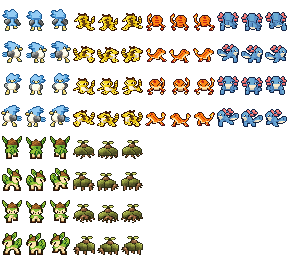
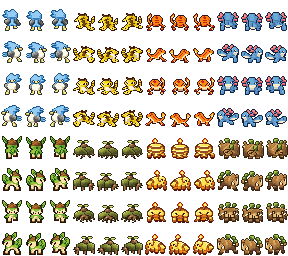
feat(monster-art): follower walk chips for the remaining nine species (#2626)
* feat(monster-art): bake follower walk chips for sparkit, aqualing, leafling, pipbug (supervisor picks)

* feat(monster-art): bake follower walk chips for the remaining nine species (worker picks, supervisor delegated)

* test(monster-art): live follower-train capture for the walking chips; wiki note

---------

diff --git a/openwiki/harnesses/monster-collect-species.md b/openwiki/harnesses/monster-collect-species.md
@@ -215,3 +215,4 @@ import를 확인한다. seed만 개인 sandbox에 복사하고 후보 import만 
 - `bake` 는 칩 8명씩 288×256 시트(`public/assets/harnesses/monster-collect-species/field/chips-<n>.png`, 한 캐릭터 72×128 = 3패턴 × 4방향 위·오른·아래·왼)로 묶고 `field/index.json`(종 → 시트·칸)을 쓴다. **칸 번호는 덧붙이기 전용**이다 — 저장된 프로젝트의 참조가 흔들리지 않게 한 번 준 칸은 바꾸지 않는다. 끝에 `manifest` 를 돌려 `harnessMonsterBundle.json` 에 `fieldSheets` 와 종별 `field {sheet,index}` 를 싣는다.
 - 런타임: `harnessMonsterArt.ts` 가 시트를 캐릭터셋 카탈로그(`charsetCatalog.ts`, id `oprn-charset-harness-monster<n>` / 텍스처 `tex_oprn_charset_harness_monster<n>`)에 올리고, 로스터(`roster.ts` `fieldArt`)가 `campaignSpeciesId` 로 이어진 종에 `graphic.fieldGraphic` 을 단다. 칩이 없는 종은 기존대로 기본 몬스터 칩. 해석기·참조 검증·내보내기는 charset 의 일반 경로를 따른다.
 - 3/4 관문(object-gate) 영수증 없음 — 몬스터 하네스 경로(생성형 참고 + 격자 손 저작). 사람이 고른 것만 굽는다.
+- 15종 전부 칩이 있다(시트 2장, 2026-10-15). 실화면 확인: `scripts/qa/runtime/follower-chip-train.capture.mjs`(출하 플레이어, `buildMonsterFixture.ts` 캠페인 사용) — 종을 6마리씩 열차로 세워 네 방향으로 걷고 맵 이동·비행선 탑승(동료 스프라이트 0)·하차(복귀)를 찍는다. 열차는 세션 followers 를 직접 쓴 디버그 쓰기, 소형선은 육지 이동이 막혀 걸음 뒤 동기화가 안 돌아 비행선으로 시험한다.
